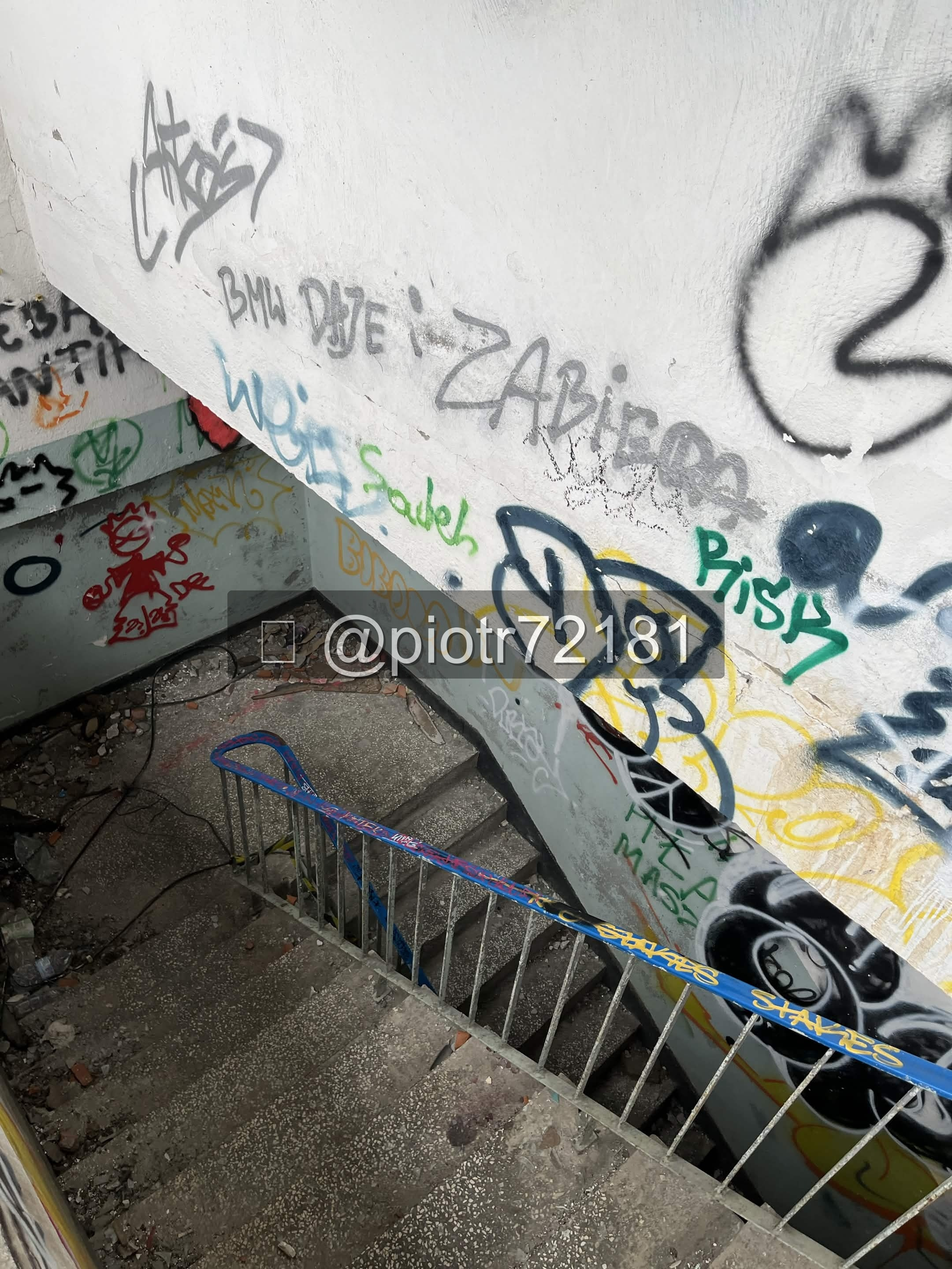
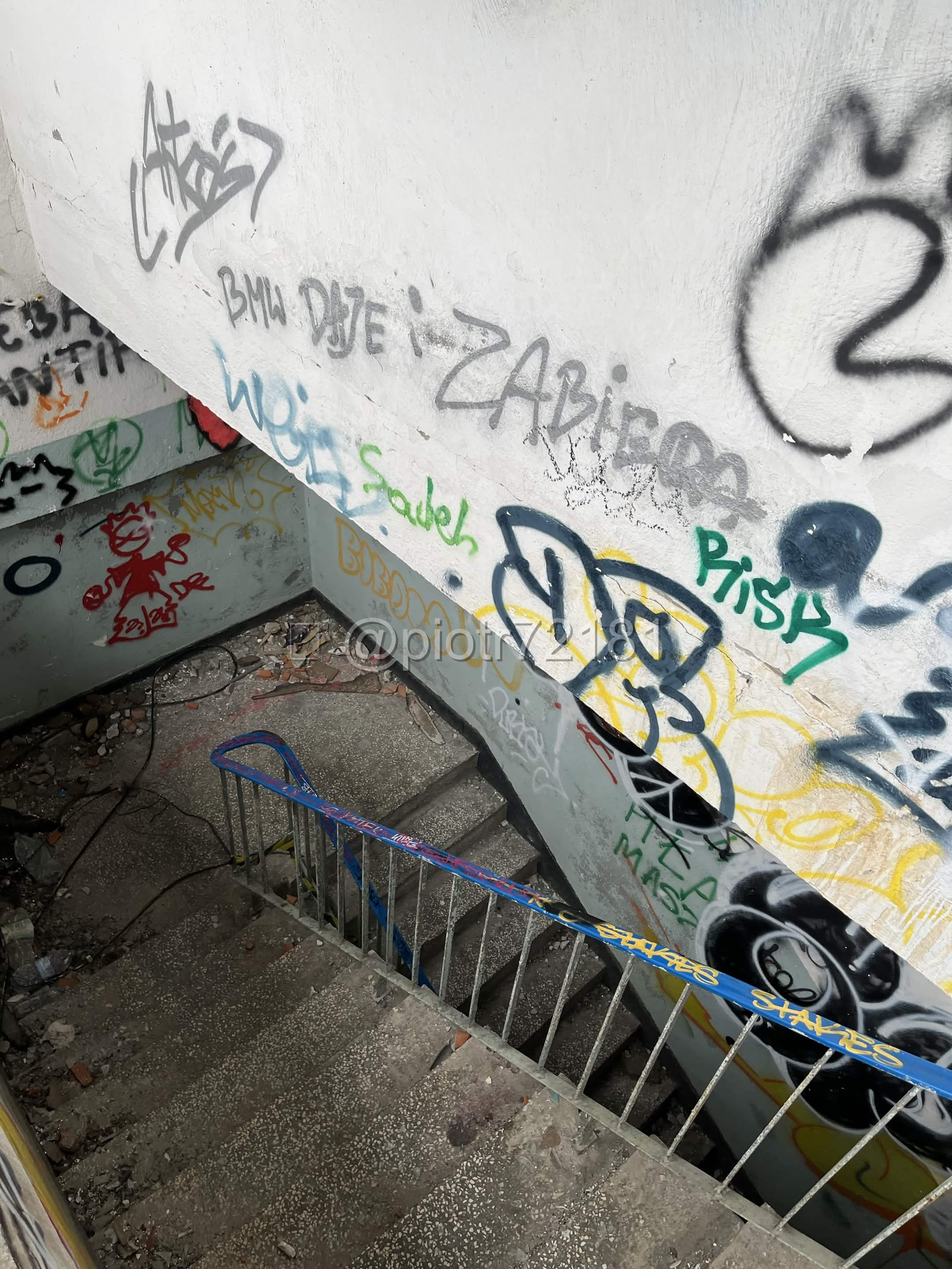
Apply desolate.zone style subtle transparent watermark @piotr72181 and remove duplicate CSS overlays

Changed region(s): [[0.2171, 0.4375, 0.7755, 0.5625]]

diff --git a/index.html b/index.html
@@ -439,25 +439,7 @@
             }
         }
 
-        /* Półprzezroczysty znak wodny w środku kadrów */
-        .media-card::after {
-            content: "📷 @piotr72181";
-            position: absolute;
-            top: 45%;
-            left: 50%;
-            transform: translate(-50%, -50%);
-            background: rgba(0, 0, 0, 0.55);
-            color: rgba(255, 255, 255, 0.85);
-            font-family: 'Share Tech Mono', monospace;
-            font-size: 11px;
-            padding: 4px 10px;
-            border-radius: 6px;
-            border: 1px solid rgba(255, 255, 255, 0.25);
-            pointer-events: none;
-            backdrop-filter: blur(4px);
-            z-index: 6;
-            letter-spacing: 0.5px;
-        }
+
 
         /* Hover: wyprostowanie, uniesienie nad inne karty i poświata */
         .media-card:hover {
